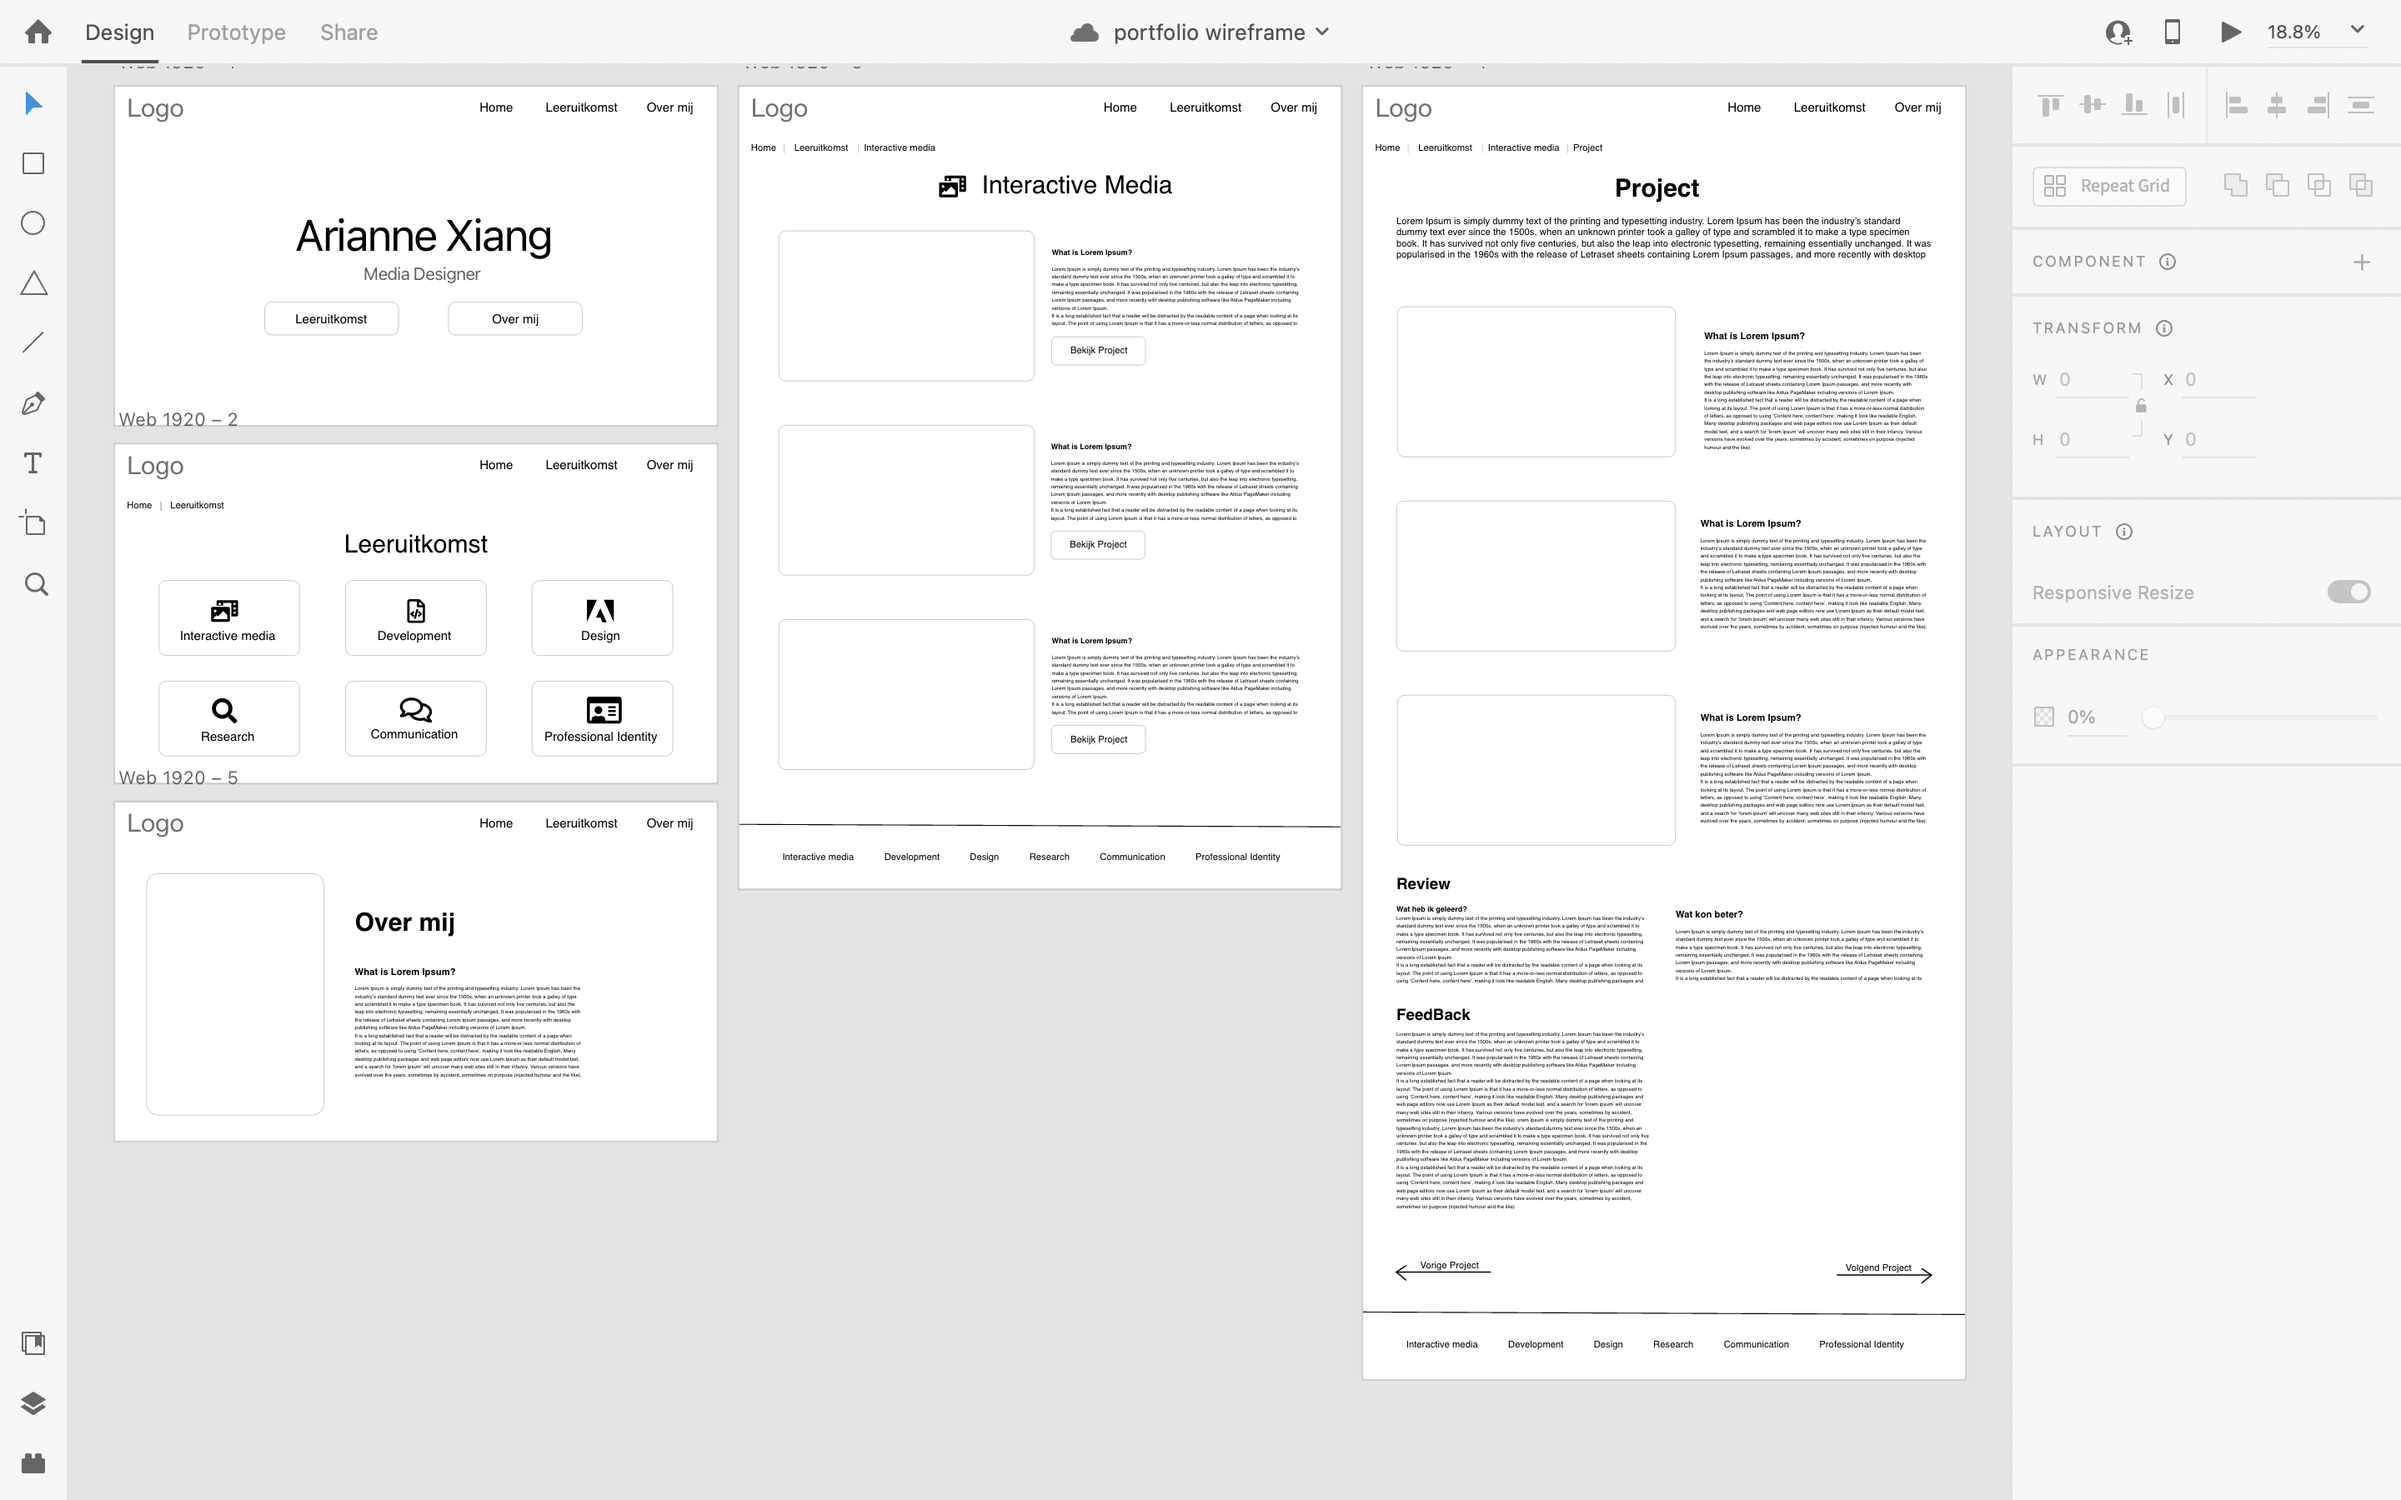
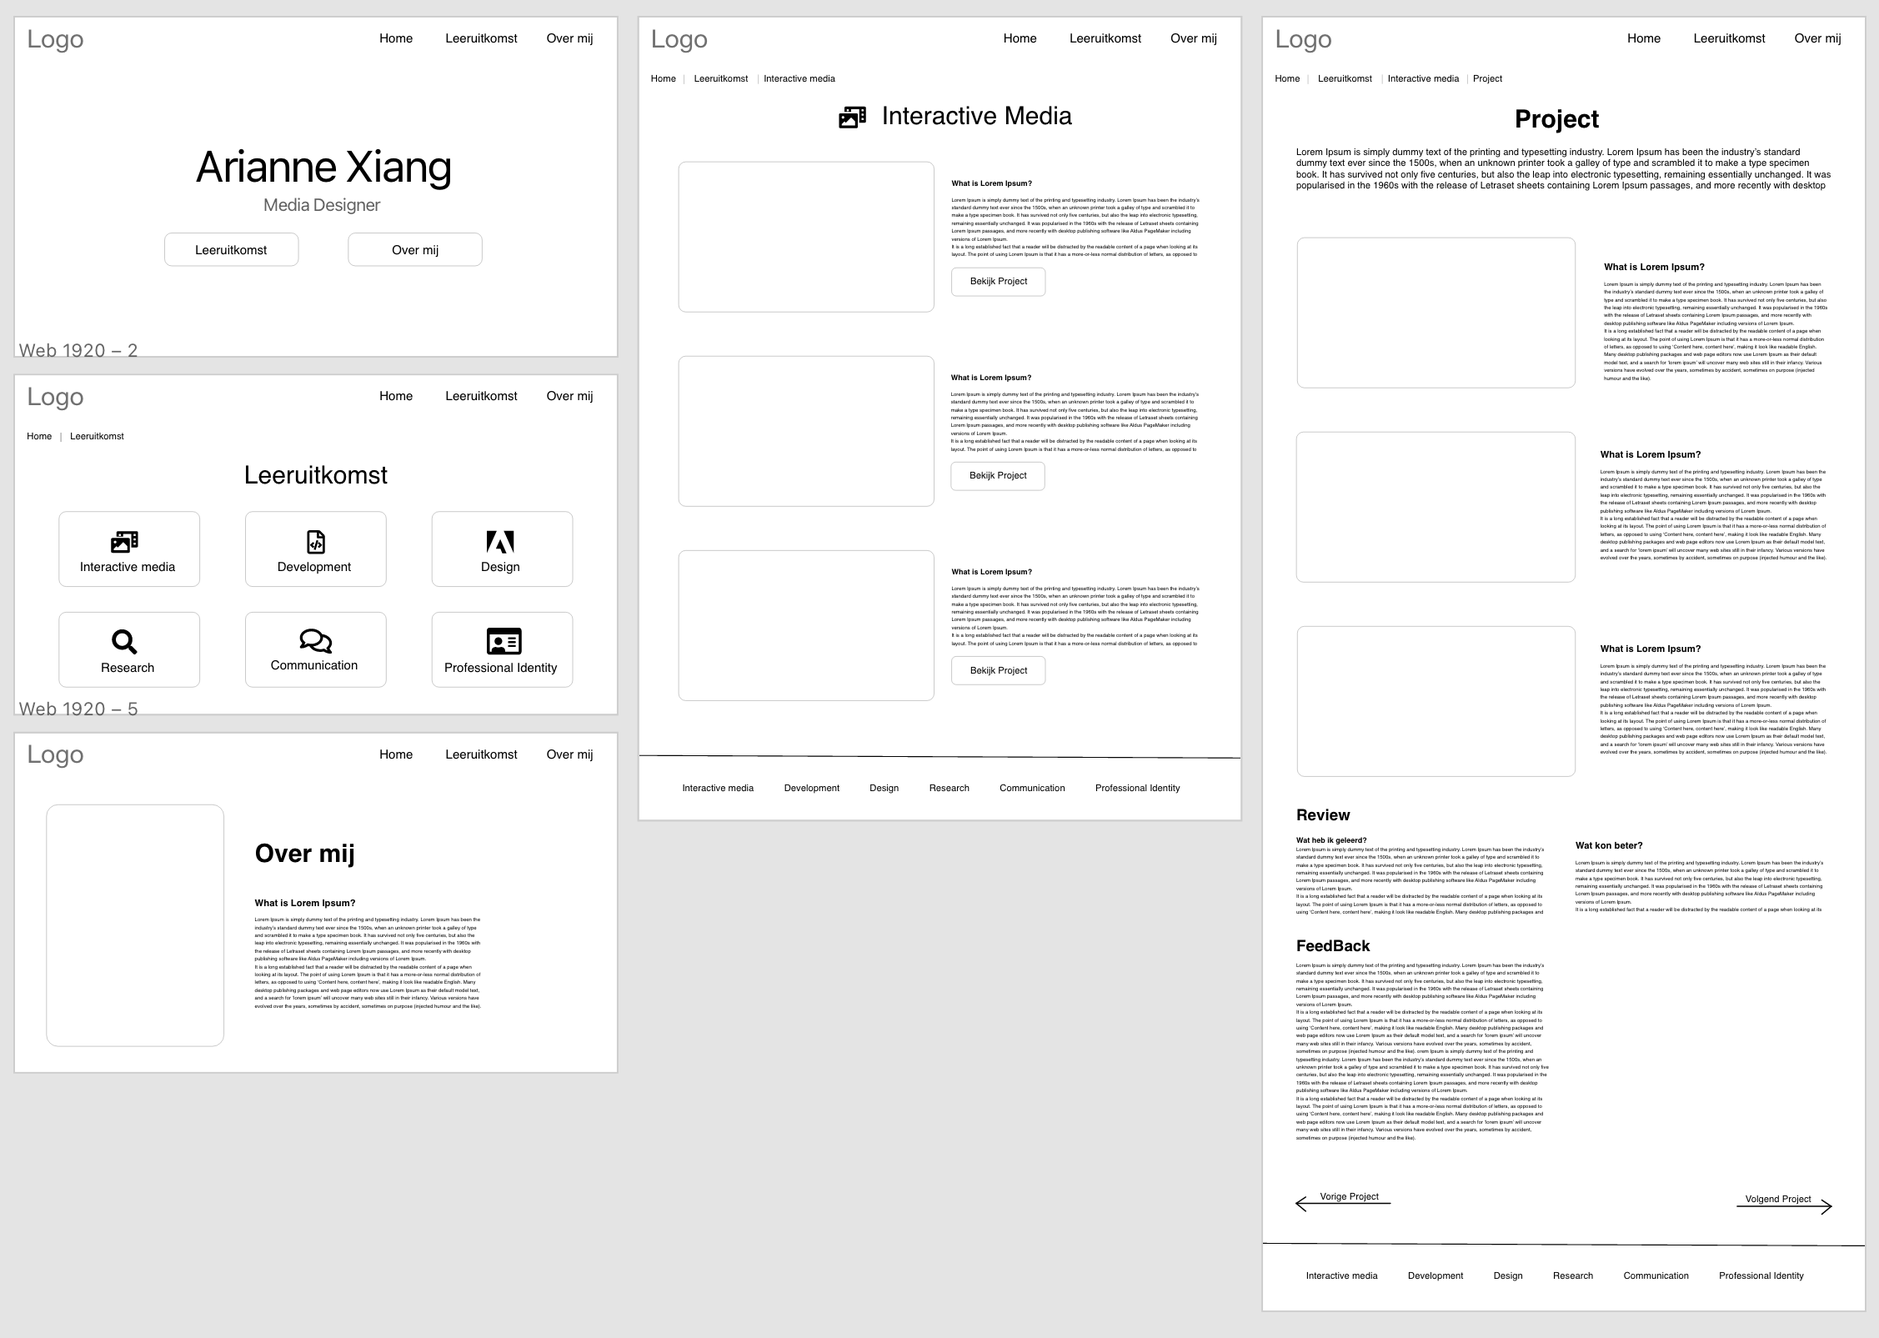
updates

diff --git a/style.css b/style.css
@@ -479,7 +479,7 @@ footer ul a {
   .grid-container-3 {
     grid-template-columns: 700px 300px;
   }
-  .grid-container-3>div {
+  .grid-container-3, .grid-container-5 >div {
     border-radius: 15px;
   }
   .item2-1-2, .item2-1-5 {
@@ -492,6 +492,18 @@ footer ul a {
 
   .item2-2-1, .item2-2-2, .item2-2-3, .item2-2-4, .item2-2-5{
     height: 650px;
+  }
+
+  .grid-container-5 {
+    grid-template-columns: 750px 350px;
+  }
+  
+  .item2-3-2, .item2-3-4, .item2-3-6, .item2-3-8, .item2-3-10, .item2-3-12, .item2-3-16 {
+    height: 450px;
+  }
+
+  .item2-3-14, .item2-3-15{
+    height: 230px;
   }
   
 }
@@ -526,7 +538,7 @@ footer ul a {
     font: normal normal bold 45px/35px Cochin;
   }
   h3 {
-    font: normal normal bold 28px/10px cochin;
+    font: normal normal bold 28px/35px cochin;
   }
   p {
     font: normal normal normal 20px/28px Helvetica;
@@ -545,6 +557,19 @@ footer ul a {
   .item2-2-1, .item2-2-2, .item2-2-3, .item2-2-4, .item2-2-5{
     height: 560px;
   }
+
+  .grid-container-5 {
+    grid-template-columns: 650px 350px;
+  }
+
+  .item2-3-2, .item2-3-4, .item2-3-6, .item2-3-8, .item2-3-10, .item2-3-12, .item2-3-16 {
+    height: 400px;
+  }
+
+  .item2-3-14, .item2-3-15{
+    height: 200px;
+  }
+  
 }
 
 @media screen and (max-width: 1050px) {
@@ -570,17 +595,19 @@ footer ul a {
     grid-gap: 50px 80px;
     justify-content: center;
   }
-  .grid-container-2 div {
-    border-radius: 10px;
+  
+  .grid-container-2, .grid-container-3, .grid-container-4, .grid-container-5 >div {
+    border-radius: 18px;
   }
+
   h2 {
     font: normal normal bold 40px/35px Cochin;
   }
   h3 {
-    font: normal normal bold 23px/10px cochin;
+    font: normal normal bold 28px/35px cochin;
   }
   p {
-    font: normal normal normal 20px/25px Helvetica;
+    font: normal normal normal 18px/25px Helvetica;
   }
   .item2-btn {
     width: 150px;
@@ -591,9 +618,7 @@ footer ul a {
   .grid-container-3 {
     grid-template-columns: 800px;
   }
-  .grid-container-3>div {
-    border-radius: 18px;
-  }
+  
   .item2-1-2, .item2-1-5 {
     grid-column: 1 / span 2;
     height: 1300px;
@@ -609,6 +634,19 @@ footer ul a {
   .item2-2-1, .item2-2-2, .item2-2-3, .item2-2-4, .item2-2-5{
     height: 530px;
   }
+
+  .grid-container-5 {
+    grid-template-columns: 555px 335px;
+  }
+
+  .item2-3-2, .item2-3-4, .item2-3-6, .item2-3-8, .item2-3-10, .item2-3-12, .item2-3-16 {
+    height: 350px;
+  }
+
+  .item2-3-14, .item2-3-15{
+    height: 170px;
+  }
+  
 }
 
 @media screen and (max-width:950px) {
@@ -620,9 +658,10 @@ footer ul a {
     grid-gap: 50px 80px;
     justify-content: center;
   }
-  .grid-container-2 div {
-    border-radius: 20px;
+  .grid-container-2, .grid-container-3, .grid-container-4, .grid-container-5 >div {
+    border-radius: 15px;
   }
+
   h3 {
     font: normal normal bold 30px/20px cochin;
   }
@@ -641,9 +680,7 @@ footer ul a {
   .grid-container-3 {
     grid-template-columns: 700px;
   }
-  .grid-container-3>div {
-    border-radius: 15px;
-  }
+  
   .item2-1-2, .item2-1-5 {
     grid-column: 1 / span 2;
     height: 1150px;
@@ -658,6 +695,22 @@ footer ul a {
 
   .item2-2-1, .item2-2-2, .item2-2-3, .item2-2-4, .item2-2-5{
     height: 420px;
+  }
+
+  .grid-container-5 {
+    grid-template-columns: 700px;
+  }
+
+  .grid-container-5 >div{
+    grid-column: 1/3;
+  }
+
+  .item2-3-2, .item2-3-4, .item2-3-6, .item2-3-8, .item2-3-10, .item2-3-12, .item2-3-16 {
+    height: 510px;
+  }
+
+  .item2-3-14{
+    height: 225px;
   }
 }
 
@@ -741,7 +794,7 @@ footer ul a {
     grid-gap: 50px 80px;
     justify-content: center;
   }
-  .grid-container-2 div {
+  .grid-container-2, .grid-container-3, .grid-container-4, .grid-container-5 >div {
     border-radius: 12px;
   }
   h3 {
@@ -757,17 +810,15 @@ footer ul a {
     font: normal normal normal 15px Helvetica;
   }
   h2 {
-    font: normal normal bold 35px/35px Cochin;
+    font: normal normal bold 30px/35px Cochin;
   }
   .grid-container-3 {
-    grid-template-columns: 500px;
+    grid-template-columns: 400px;
   }
-  .grid-container-3, .grid-container-4 >div {
-    border-radius: 12px;
-  }
+  
   .item2-1-2, .item2-1-5 {
     grid-column: 1 / span 2;
-    height: 1150px;
+    height: 750px;
   }
   .item2-1-3, .item2-1-6 {
     grid-column: 1/span 2;
@@ -779,5 +830,21 @@ footer ul a {
 
   .item2-2-1, .item2-2-2, .item2-2-3, .item2-2-4, .item2-2-5{
     height: 285px;
+  }
+
+  .grid-container-5 {
+    grid-template-columns: 500px;
+  }
+
+  .grid-container-5 >div{
+    grid-column: 1/3;
+  }
+
+  .item2-3-2, .item2-3-4, .item2-3-6, .item2-3-8, .item2-3-10, .item2-3-12, .item2-3-16 {
+    height: 380px;
+  }
+
+  .item2-3-14{
+    height: 180px;
   }
 }
